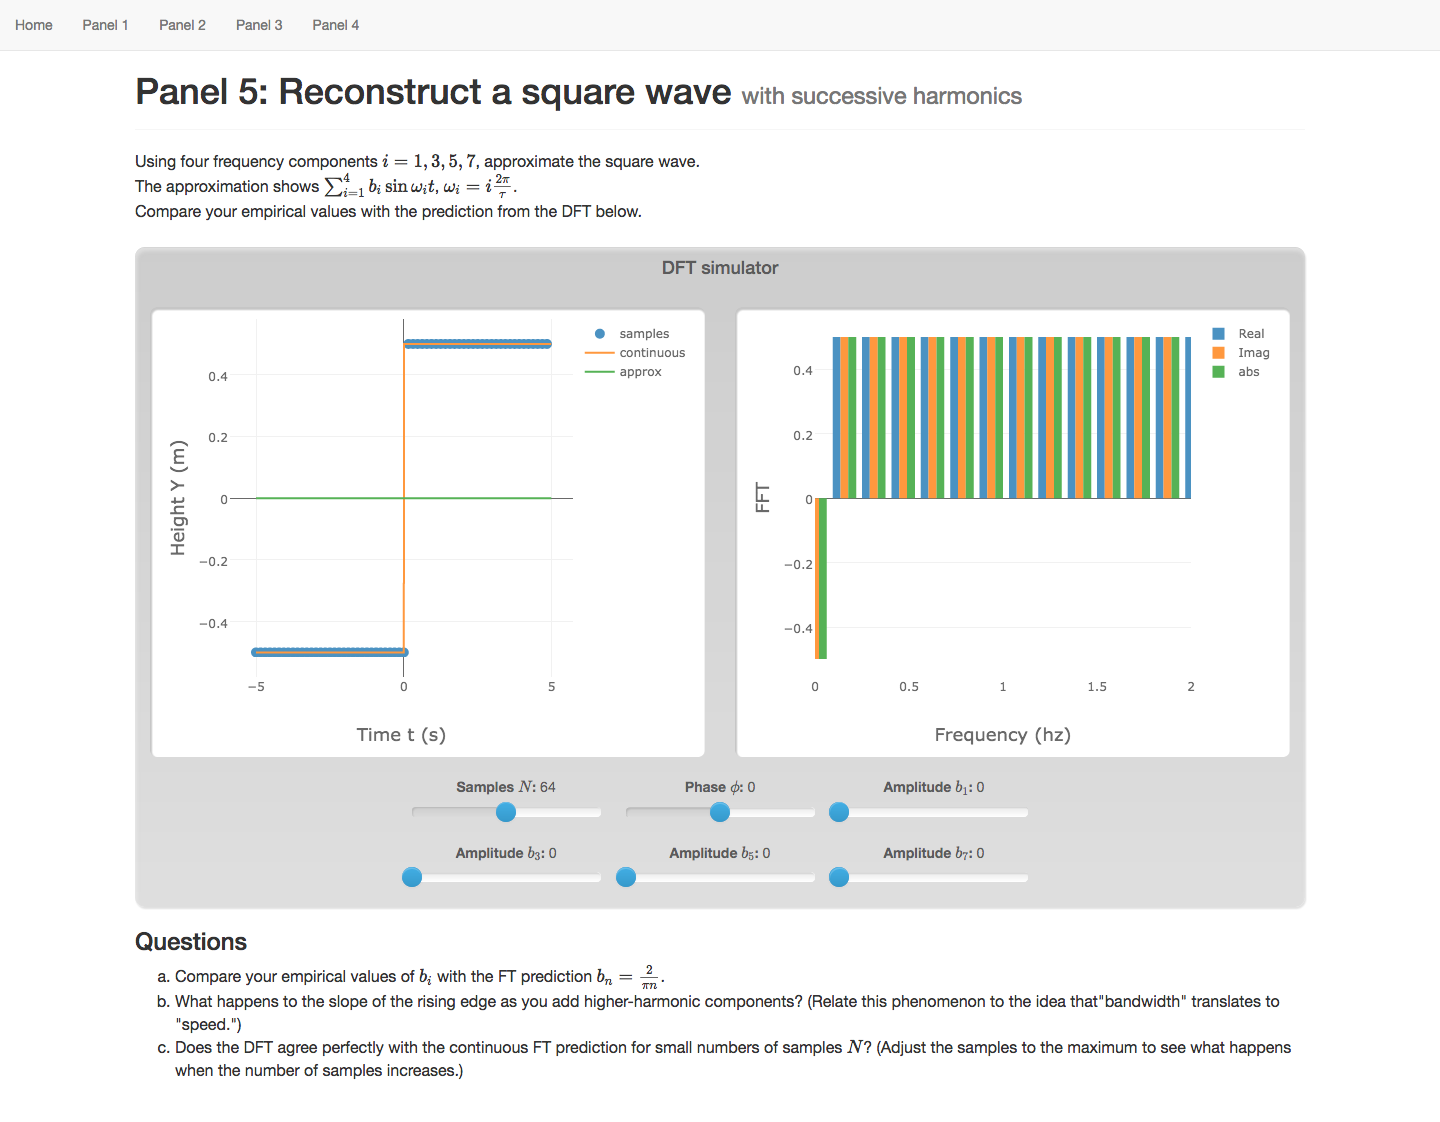
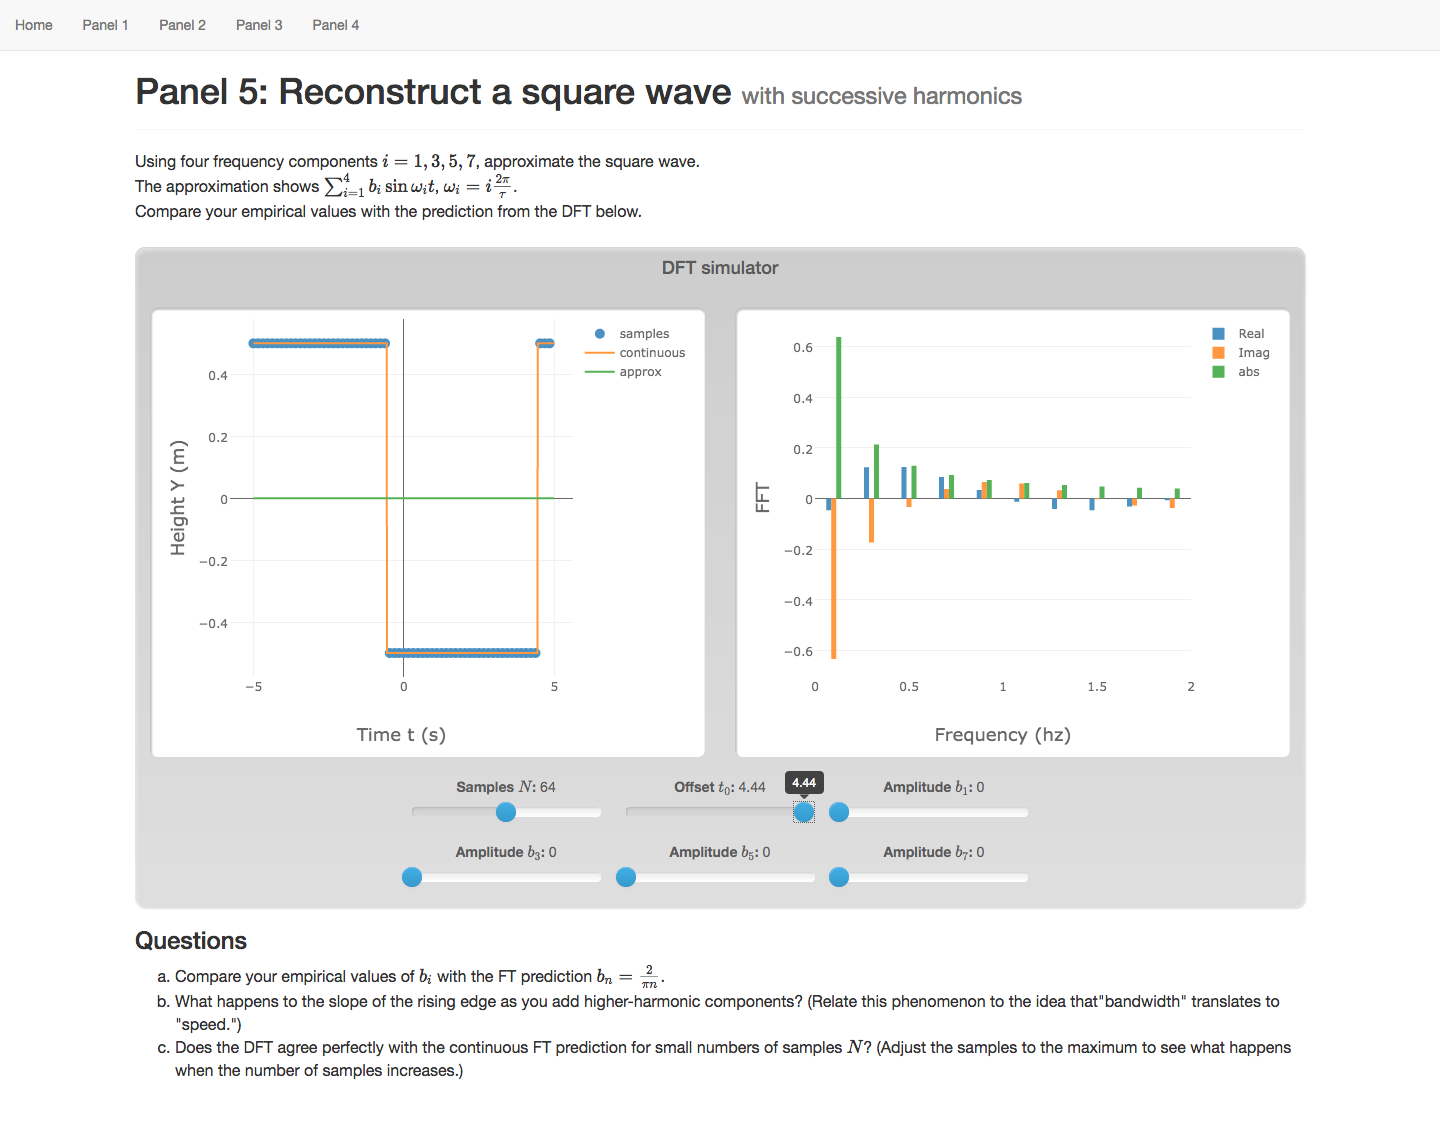
Modify variable name

diff --git a/DFTSim/assets/js/panel5.js b/DFTSim/assets/js/panel5.js
@@ -11,13 +11,13 @@ var yApprox = new Array(nCont);
 var fmin = 1.0 / xHi;
 
 var sampleSlider = $('#mySamples').bootstrapSlider({});
-var phaseSlider = $('#myPhase').bootstrapSlider({});
+var t0Slider = $('#myT0').bootstrapSlider({});
 var b1Slider = $('#b1').bootstrapSlider();
 var b3Slider = $('#b3').bootstrapSlider();
 var b5Slider = $('#b5').bootstrapSlider();
 var b7Slider = $('#b7').bootstrapSlider();
 var nSample = Math.pow(2, sampleSlider.bootstrapSlider('getValue'));  // Number of samples
-var phase = phaseSlider.bootstrapSlider('getValue');
+var t0 = t0Slider.bootstrapSlider('getValue');
 var b1 = b1Slider.bootstrapSlider('getValue');
 var b3 = b3Slider.bootstrapSlider('getValue');
 var b5 = b5Slider.bootstrapSlider('getValue');
@@ -45,13 +45,13 @@ function xvUpdate() {
 
 function yvUpdate() {
     /*
-    yv will change as the number of samples and phase change.
+    yv will change as the number of samples and t0 change.
      */
     yv = new Array(nSample);
     for (var i = 0; i < nSample; i++) {  // Sample y coordinates
-        if (xv[i] > (phase + 5.0)) {
+        if (xv[i] > (t0 + 5.0)) {
             yv[i] = -0.5
-        } else if (xv[i] > phase || xv[i] < (phase - 5.0)) {
+        } else if (xv[i] > t0 || xv[i] < (t0 - 5.0)) {
             yv[i] = 0.5
         } else {
             yv[i] = -0.5
@@ -61,12 +61,12 @@ function yvUpdate() {
 
 function yContUpdate() {
     /*
-    yCount will change as the phase changes.
+    yCount will change as the t0 changes.
      */
     for (var i = 0; i < nCont; i++) {
-        if (xCont[i] > (phase + 5.0)) {
+        if (xCont[i] > (t0 + 5.0)) {
             yCont[i] = -0.5
-        } else if (xCont[i] > phase || xCont[i] < (phase - 5.0)) {
+        } else if (xCont[i] > t0 || xCont[i] < (t0 - 5.0)) {
             yCont[i] = 0.5
         } else {
             yCont[i] = -0.5
@@ -76,13 +76,13 @@ function yContUpdate() {
 
 function yApproxUpdate() {
     /*
-    yApprox will change as phase, b1, b3, b5, b7 change.
+    yApprox will change as t0, b1, b3, b5, b7 change.
      */
     for (var i = 0; i < nCont; i++) {
-        yApprox[i] = b1 * Math.sin(0.62832 * (xCont[i] - phase)) +
-            b3 * Math.sin(3. * 0.62832 * (xCont[i] - phase)) +
-            b5 * Math.sin(5. * 0.62832 * (xCont[i] - phase)) +
-            b7 * Math.sin(7. * 0.62832 * (xCont[i] - phase))
+        yApprox[i] = b1 * Math.sin(0.62832 * (xCont[i] - t0)) +
+            b3 * Math.sin(3. * 0.62832 * (xCont[i] - t0)) +
+            b5 * Math.sin(5. * 0.62832 * (xCont[i] - t0)) +
+            b7 * Math.sin(7. * 0.62832 * (xCont[i] - t0))
     }
 }
 
@@ -103,15 +103,15 @@ sampleSlider.on('slideStop', function () {
     $('#samplesSliderVal').text(nSample)
 });
 
-phaseSlider.on('slideStop', function () {
-    phase = phaseSlider.bootstrapSlider('getValue');  // Change "global" value
+t0Slider.on('slideStop', function () {
+    t0 = t0Slider.bootstrapSlider('getValue');  // Change "global" value
     yvUpdate();
     yContUpdate();
     yApproxUpdate();
     FFTUpdate();
     plot();
 
-    $('#phaseSliderVal').text(phase)
+    $('#t0SliderVal').text(t0)
 });
 
 b1Slider.on('slideStop', function () {
@@ -202,16 +202,16 @@ function FFTUpdate() {
 // Plot
 function plotDataUpdate() {
     var a = fv_half.map(function (x) {
-        return x * Math.cos(10 * phase)
+        return x * Math.cos(10 * t0)
     });
     var b = fv_im_half.map(function (x) {
-        return x * Math.sin(10 * phase)
+        return x * Math.sin(10 * t0)
     });
     var c = fv_im_half.map(function (x) {
-        return x * Math.cos(10 * phase)
+        return x * Math.cos(10 * t0)
     });
     var d = fv_half.map(function (x) {
-        return x * Math.sin(10 * phase)
+        return x * Math.sin(10 * t0)
     });
     m = new Array(a.length);
     n = new Array(c.length);
@@ -350,7 +350,7 @@ yApproxUpdate();
 FFTUpdate();
 createPlots();
 $('#samplesSliderVal').text(nSample);
-$('#phaseSliderVal').text(phase);
+$('#t0SliderVal').text(t0);
 $('#b1SliderVal').text(b1);
 $('#b3SliderVal').text(b3);
 $('#b5SliderVal').text(b5);

diff --git a/DFTSim/panel5.html b/DFTSim/panel5.html
@@ -109,9 +109,9 @@
                         </div>
 
                         <div class="col sliderRow">
-                            <label for="myPhase" class="slideLables">Phase \( \phi \):</label>
-                            <span id="phaseSliderVal" class="sliderVal"></span>
-                            <input id="myPhase" data-slider-min="-4.99" data-slider-max="4.99" data-slider-value="0"
+                            <label for="myT0" class="slideLables">Offset \( t_0 \):</label>
+                            <span id="t0SliderVal" class="sliderVal"></span>
+                            <input id="myT0" data-slider-min="-4.99" data-slider-max="4.99" data-slider-value="0"
                                    data-slider-step="0.01">
                         </div>
 
